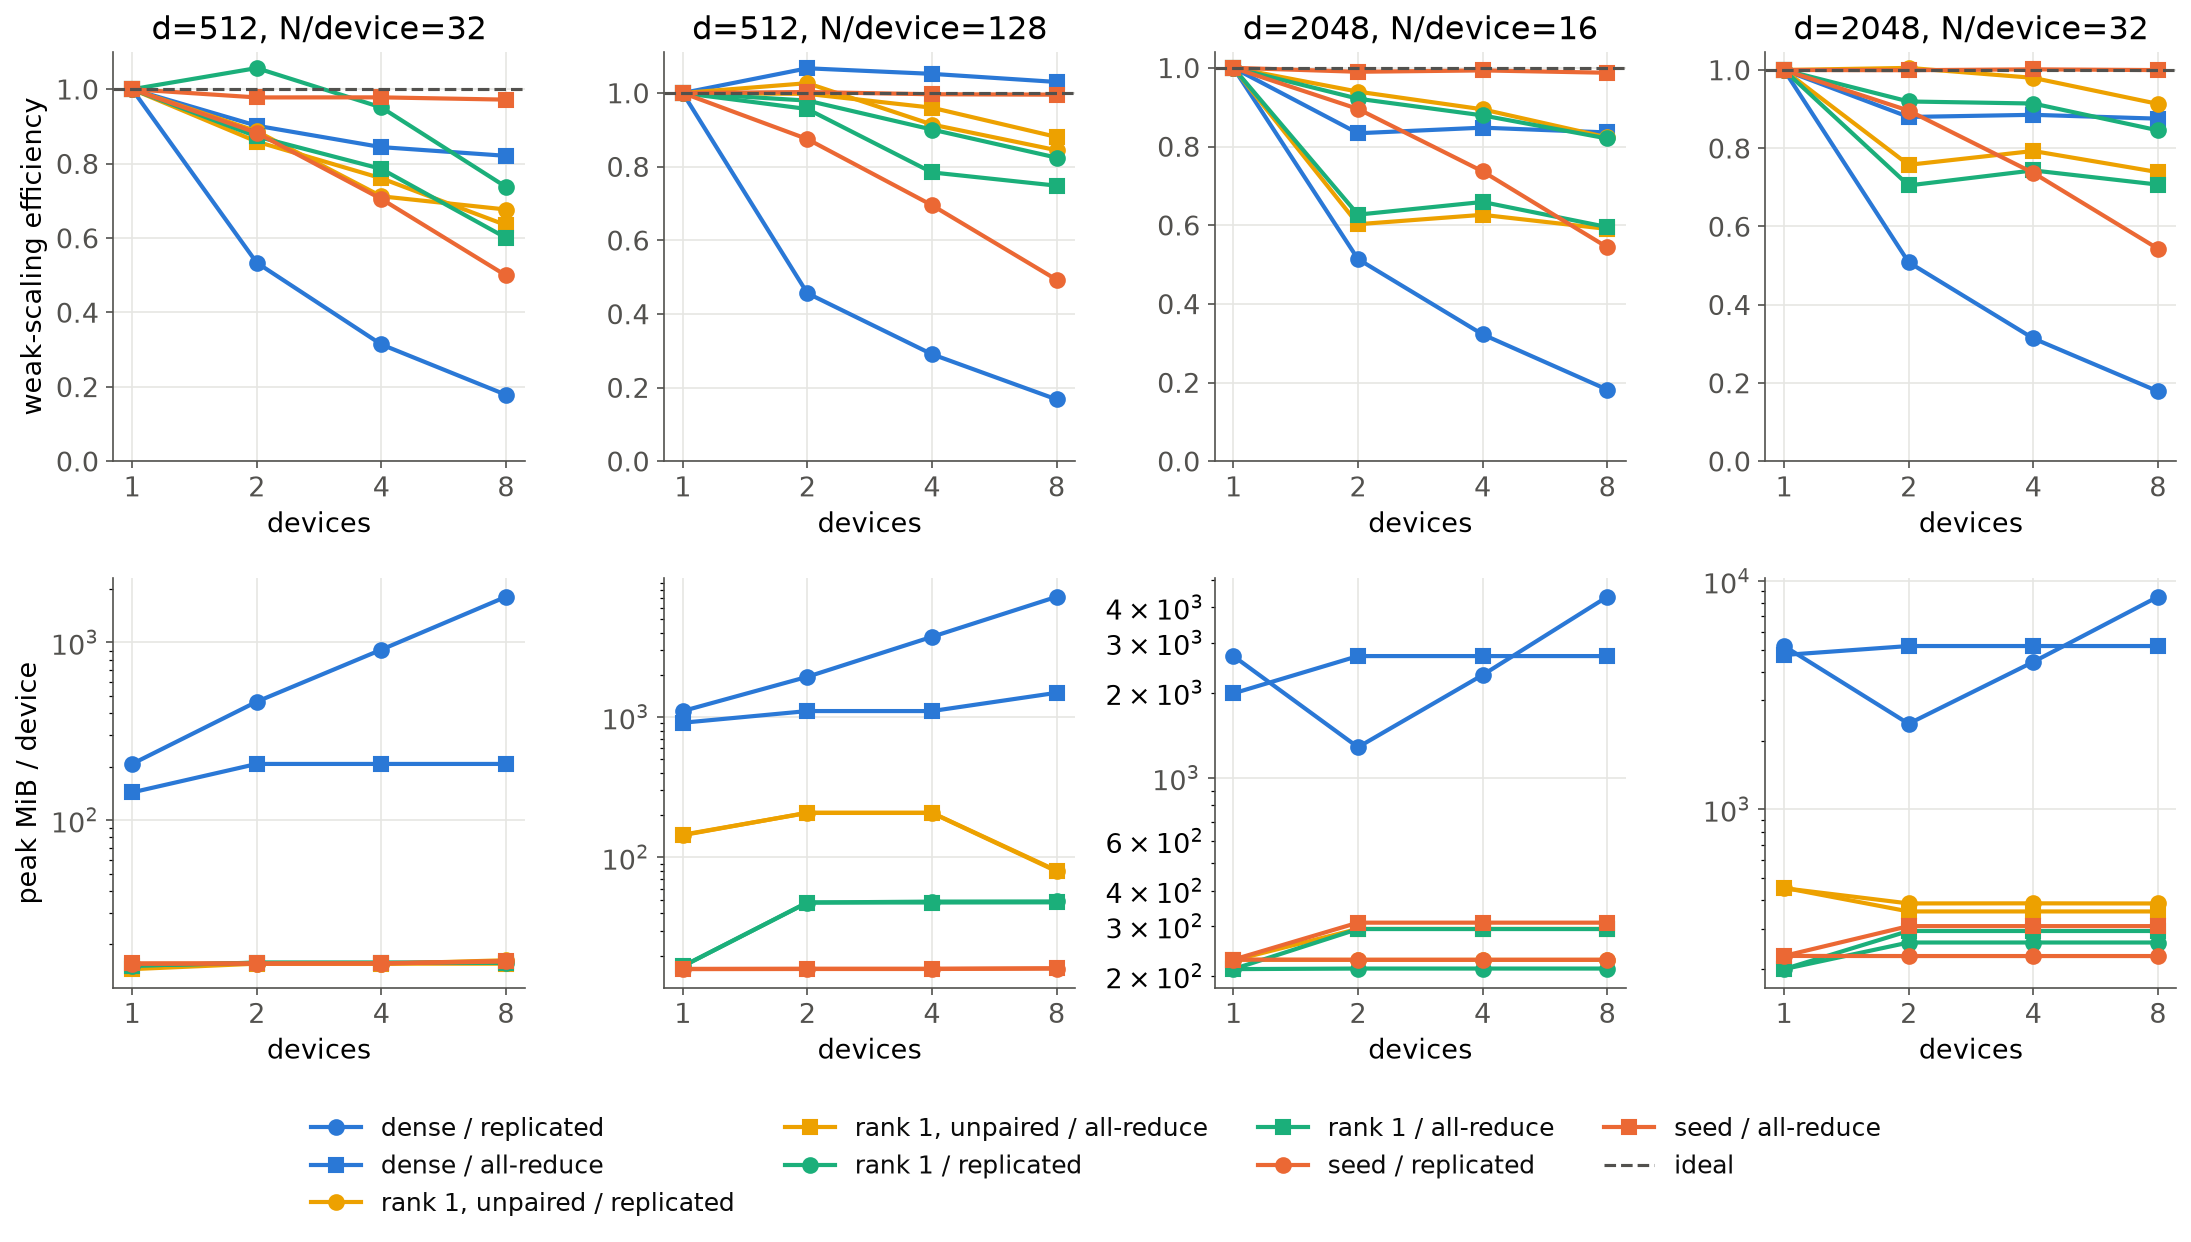
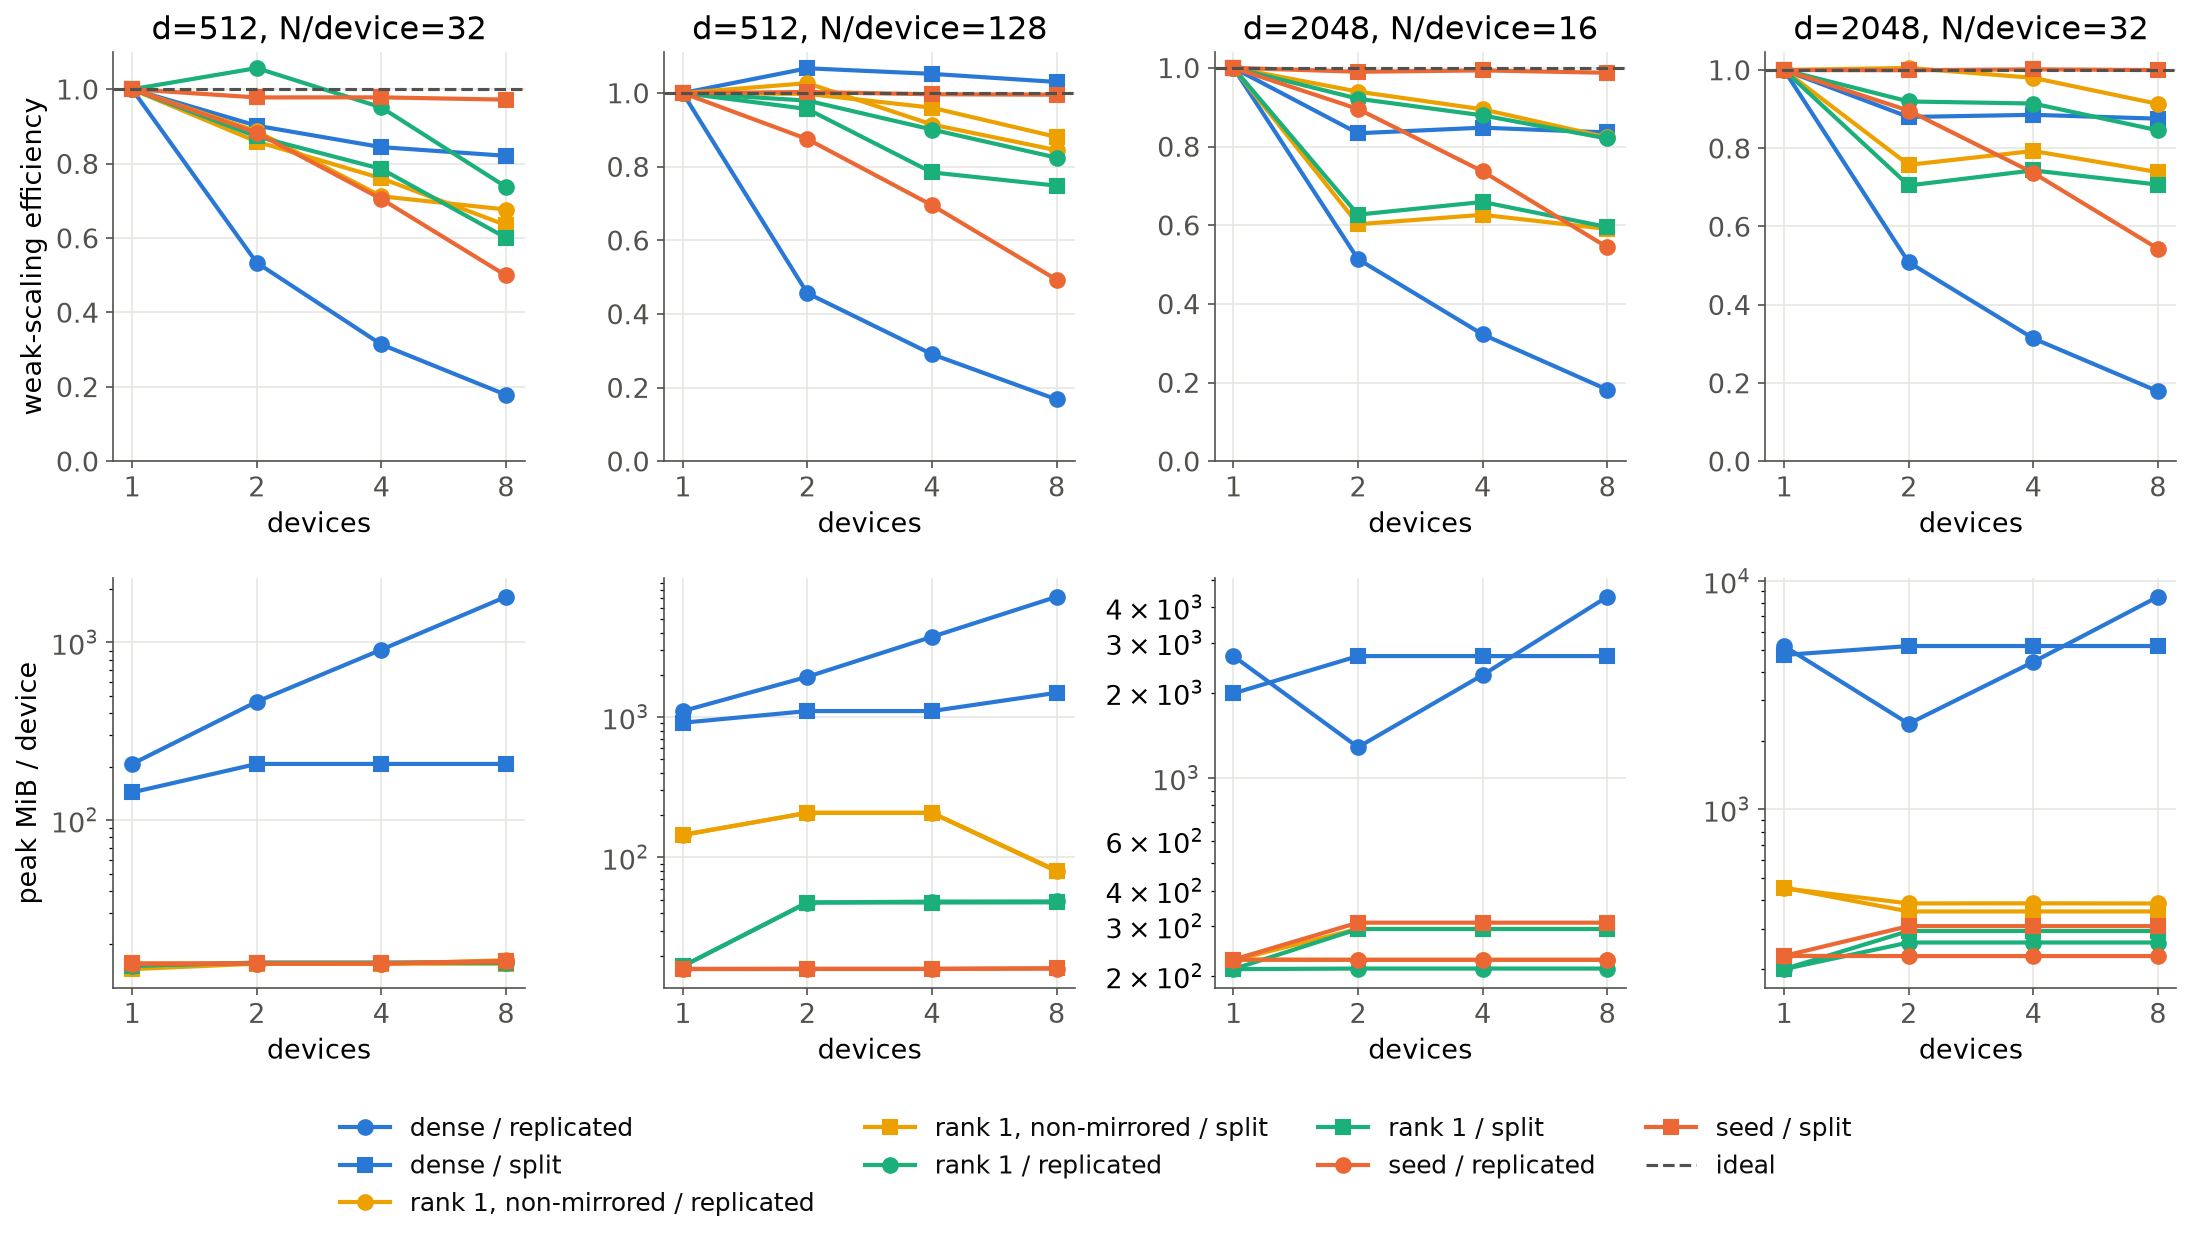
background: define the update's symbols, fix the full-rank variants
The update paragraph now defines f and epsilon_i where they first
appear and calls w_i a coefficient, since "weights" already means the
parameters. The rank-invariance sentence gave way to the consequence
the placement argument uses: every device needs all N scores before
any coefficient exists, so both placements start by sharing them.

The full-rank paragraph said seed differs from dense by generating the
noise twice. In this library every variant regenerates its noise from
seeds for reconstruction; dense and seed differ in evaluation (all
arrays at once against one at a time). The variant table says so.

"Paired" and "unpaired" were never defined, so the paper now says
mirrored and non-mirrored everywhere, including the abstract and the
scaling-grid legends. Those legends also called the split placement
"all-reduce"; they now say "split", as the other figures do. The four
grid figures were regenerated from plot.py and differ from the
committed ones only in the legend strip.

Changed region(s): [[0.1241, 0.8873, 0.869, 0.9791]]

diff --git a/paper/sections/02-background.tex b/paper/sections/02-background.tex
@@ -1,56 +1,68 @@
 \section{Background}
 \label{sec:background}
 
-\paragraph{The update.} Let $\theta$ contain the model's $P$ parameters. A generation
-(one training update) evaluates $N$ perturbed candidates,
-$f_i=f(\theta+\sigma\epsilon_i)$, where $\sigma$ sets the noise scale. It then updates
+\paragraph{The update.} Let $\theta$ denote the model's $P$ parameters and $f$ the loss to
+be minimized, which ES calls the fitness. Each generation evaluates the fitness of $N$
+candidates, $f_i=f(\theta+\sigma\epsilon_i)$, where $\epsilon_i$ is candidate $i$'s random
+perturbation, an array with the shape of $\theta$, and $\sigma$ sets the noise scale. It
+then changes the parameters by
 \begin{equation}
   \Delta\theta = -\frac{\eta}{N\sigma}\sum_{i=1}^{N} w_i\,\epsilon_i ,
   \label{eq:update}
 \end{equation}
-where $\eta$ is the learning rate and $w_i$ is computed from candidate $i$'s score
-\citep{wierstra2014,nesterov2017}. Here a fitness score is a loss to minimize; rewards
-enter negated. We use \emph{centered ranks}: scores are ranked and scaled to
-$[-\tfrac12,\tfrac12]$ \citep{salimans2017}. The update moves toward perturbations
-with lower losses and away from those with higher losses. Ranking makes the update
-insensitive to strictly increasing transformations of the scores.
+where $\eta$ is the learning rate and $w_i$ is a coefficient computed from the fitness
+scores \citep{wierstra2014,nesterov2017}. A reward to be maximized enters negated. We use
+\emph{centered ranks}: each score is replaced by its rank among the $N$ scores, scaled
+linearly to $[-\tfrac12,\tfrac12]$ \citep{salimans2017}. The update therefore moves toward
+perturbations with lower losses and away from those with higher losses. Because a rank
+depends on every score, all $N$ scores must reach every device before any coefficient can
+be computed, so both placements begin by sharing them.
 
 \emph{Mirrored} sampling evaluates each perturbation $\epsilon$ together with
-$-\epsilon$, so $N$ candidates use $N/2$ independent directions.
+$-\epsilon$, so $N$ candidates use $N/2$ independent directions. The terms for $\epsilon$
+and $-\epsilon$ in Eq.~\ref{eq:update} combine into one, weighted by the difference of their
+coefficients, so reconstruction processes $N/2$ perturbations instead of $N$.
 
-\paragraph{Two separate choices.} The perturbation design determines how candidates
-are represented and evaluated. The update placement determines where the weighted sum
-in Eq.~\ref{eq:update} is computed. We vary both choices independently.
+\paragraph{Two separate choices.} The perturbation design determines how perturbations
+are generated, stored and evaluated, and so how much work reconstruction takes. The
+update placement determines where the weighted sum in Eq.~\ref{eq:update} is computed:
+in full on every device (replication), or in parts that an all-reduce adds (splitting).
+We vary the two choices independently.
 
-Full-rank Gaussian noise perturbs every weight independently. It can be stored as a
-full array for every candidate (\emph{dense}) or regenerated from a seed when needed
-(\emph{seed}) \citep{qiu2025}. The latter avoids persistent model-sized noise arrays
-per candidate, at the cost of generating the noise for evaluation and again for the update.
+Full-rank Gaussian noise perturbs every weight independently. During evaluation it can
+be held as a full array for every candidate (\emph{dense}) or regenerated from a seed as
+each candidate is evaluated (\emph{seed}) \citep{qiu2025}. Seed needs memory for only one
+candidate's noise at a time, but evaluates the candidates one at a time. Both variants
+generate the noise a second time, from seeds, for reconstruction.
 
 Low-rank noise represents the perturbation of an $m\times n$ weight matrix as
-$UV^\top/\sqrt r$, where $U$ is $m\times r$ and $V$ is $n\times r$. Rank 1 uses
-one column in each factor. The factors store $r(m+n)$ values instead of $mn$, and the
-full perturbation matrix need not be formed \citep{eggroll2025}. Each perturbation has
-rank at most $r$; the weighted sum over candidates can have higher rank.
-Table~\ref{tab:arms} fixes the names used below. Unless qualified, \emph{rank $r$}
-means mirrored sampling.
+$UV^\top/\sqrt r$, where $U$ ($m\times r$) and $V$ ($n\times r$) have independent
+standard Gaussian entries; the factor $1/\sqrt r$ gives each entry of the product unit
+variance, as in full-rank noise. The factors store $r(m+n)$ values instead of $mn$, and
+the full perturbation matrix is never formed \citep{eggroll2025}. Each perturbation has
+rank at most $r$, but the weighted sum over candidates can have higher rank, so the
+update is still a full $m\times n$ matrix. Table~\ref{tab:arms} lists the names used
+below; unless stated otherwise, \emph{rank $r$} refers to mirrored sampling.
 
 \begin{table}[t]
 \centering
 \small
-\setlength{\tabcolsep}{4pt}
-\caption{Perturbation variants. Dense and seed use the same full-rank noise distribution;
-  their storage differs. Pairing is a separate choice.}
+\setlength{\tabcolsep}{3pt}
+\caption{Perturbation variants. Dense and seed draw the same full-rank noise; during
+  evaluation, dense holds every candidate's noise array at once and seed holds one at a
+  time. Every variant regenerates its noise from seeds for reconstruction. Mirrored
+  sampling is chosen independently.}
 \label{tab:arms}
 \begin{tabular}{llll}
 \toprule
-name & noise & storage & paired? \\
+name & noise & held during & mirrored? \\
+ & & evaluation & \\
 \midrule
-dense & full rank & full arrays & no \\
-seed & full rank & regenerated & no \\
-seed, mirrored & full rank & regenerated & yes \\
+dense & full rank & all arrays & no \\
+seed & full rank & one array & no \\
+seed, mirrored & full rank & one array & yes \\
 rank $r$ & low rank & thin factors & yes \\
-rank $r$, unpaired & low rank & thin factors & no \\
+rank $r$, non-mirrored & low rank & thin factors & no \\
 \bottomrule
 \end{tabular}
 \end{table}

diff --git a/paper/sections/appendix.tex b/paper/sections/appendix.tex
@@ -58,7 +58,7 @@ The measured-components model agrees with all 18 resolved A100 and all 12 resolv
 comparisons. The counts differ between platforms because the mirrored full-rank variant
 was run only on A100. Replacing $C_B$ by $C_A/D$ and using the isolated collective
 benchmark gives 17/20 and 16/16 sign agreements, including two resolved A100 misses:
-mirrored rank 1 at $(d,N)=(512,256)$ and unpaired rank 1 at $(2048,256)$. For A100
+mirrored rank 1 at $(d,N)=(512,256)$ and non-mirrored rank 1 at $(2048,256)$. For A100
 low-rank noise at width 2048, this simple model predicts $t_A-t_B$ between $-0.49$
 and $+0.18$\,ms, against $-1.63$ to $-0.84$\,ms measured. Keeping ideal splitting but
 using the communication added to the reconstruction probe improves the counts to 19/20
@@ -121,7 +121,7 @@ lead at every low-rank width-2048 configuration. This is a conditional bound fro
 
 A conditional scaling argument helps separate parameter count from implementation
 constants. Suppose the leading low-rank reconstruction cost is $C_A=kPNr$, with $k$ absorbing
-pairing and arithmetic efficiency, and $C_B=qC_A$. Write the collective time
+mirrored sampling and arithmetic efficiency, and $C_B=qC_A$. Write the collective time
 as $\alpha+4P/\beta$. Equation~\ref{eq:crossover} then favors splitting when
 \[
   (1-q)kNr > \frac{4}{\beta}
@@ -225,9 +225,9 @@ figures add time per generation, and the weak-scaling figures peak memory per de
 0.86--0.93 efficiency at eight devices on the A100 and 0.71--0.91 on the v5e. What
 degrades is a placement: under replication the dense and seed variants fall to 0.39 and 0.50
 on the A100 (0.18 and 0.54 on the v5e), because they have the most work to repeat, and
-under all-reduce the same variants hold 0.79--1.00. The v5e grid has efficiencies above one,
+under splitting the same variants hold 0.79--1.00. The v5e grid has efficiencies above one,
 all at $d{=}512$ (rank 1 at $N{=}1024$ reaches 1.22 at $D{=}2$): there the single chip is
-memory-bound, and splitting the population relieves it. The dense variant with all-reduce has
+memory-bound, and dividing the population among chips relieves it. The split dense variant has
 no one-device point at $d{=}2048$, $N{=}256$ on the v5e (out of memory), so its efficiency
 is normalized at $D{=}2$.
 

diff --git a/paper/sections/06-results.tex b/paper/sections/06-results.tex
@@ -13,7 +13,7 @@
     fastest split / slowest replicated repeat to slowest split / fastest replicated
     repeat, across five repeats per placement; these are not confidence intervals.
     The three main variants measured on both platforms are shown; the complete grids,
-    including pairing variants, are in Appendix~\ref{sec:grids}.}
+    including the other variants of Table~\ref{tab:arms}, are in Appendix~\ref{sec:grids}.}
   \label{fig:f2}
 \end{figure*}
 
@@ -24,7 +24,7 @@ is 1.45--5.62$\times$. Dense alone gains 1.8--2.4$\times$ on the A100 and
 evaluation path. Replication is faster for rank-1 perturbations at width 2048
 (Figure~\ref{fig:f2}). For those low-rank configurations, splitting takes 4--15\% longer
 on the A100 and 17--46\% longer on the v5e. These low-rank ranges include both mirrored (drawn) and
-unpaired sampling; Appendix~\ref{sec:grids} gives all variants and absolute times.
+non-mirrored sampling; Appendix~\ref{sec:grids} gives all variants and absolute times.
 
 At width 512 the rank-1 placements are close. We treat a comparison as unresolved when
 its repeat range contains 1, using the range defined in the figure caption. At eight

diff --git a/paper/sections/abstract.tex b/paper/sections/abstract.tex
@@ -8,7 +8,7 @@ partial updates (splitting). The faster choice depends on
 whether the computation saved outweighs the communication added. Using one JAX implementation,
 we measure this tradeoff for full-rank and low-rank perturbations on A100 GPUs and TPU v5e
 chips. On a transformer-block benchmark with eight devices in one host, splitting gives
-1.5--5.6$\times$ speedups for the unpaired full-rank variants; for low-rank perturbations at the
+1.5--5.6$\times$ speedups for full-rank variants without mirrored sampling; for low-rank perturbations at the
 larger matrix width, it takes 4--46\% longer than replication. The placement preference
 carries over to Qwen2.5-0.5B on the TPU, while across a slow connection between two A100
 hosts, replication wins for both perturbation types at the larger matrix width, reversing

diff --git a/experiments/phase2/plot.py b/experiments/phase2/plot.py
@@ -44,8 +44,8 @@ HUES = {"iid_gaussian": "#2a78d6", "seed_regenerated": "#eb6834", "mirrored_lr1"
 MARKERS = {"A": "o", "B": "s"}
 #: The names the paper uses. Figures print these, never the code identifiers.
 LABELS = {"iid_gaussian": "dense", "seed_regenerated": "seed", "mirrored_seed": "seed, mirrored",
-          "mirrored_lr1": "rank 1", "lowrank_r1": "rank 1, unpaired"}
-PLACEMENT = {"A": "replicated", "B": "all-reduce"}
+          "mirrored_lr1": "rank 1", "lowrank_r1": "rank 1, non-mirrored"}
+PLACEMENT = {"A": "replicated", "B": "split"}
 INK, MUTED = "#0b0b0b", "#52514e"
 
 #: Two hues plus a neutral grey midpoint. A rainbow here would imply an ordering the data
